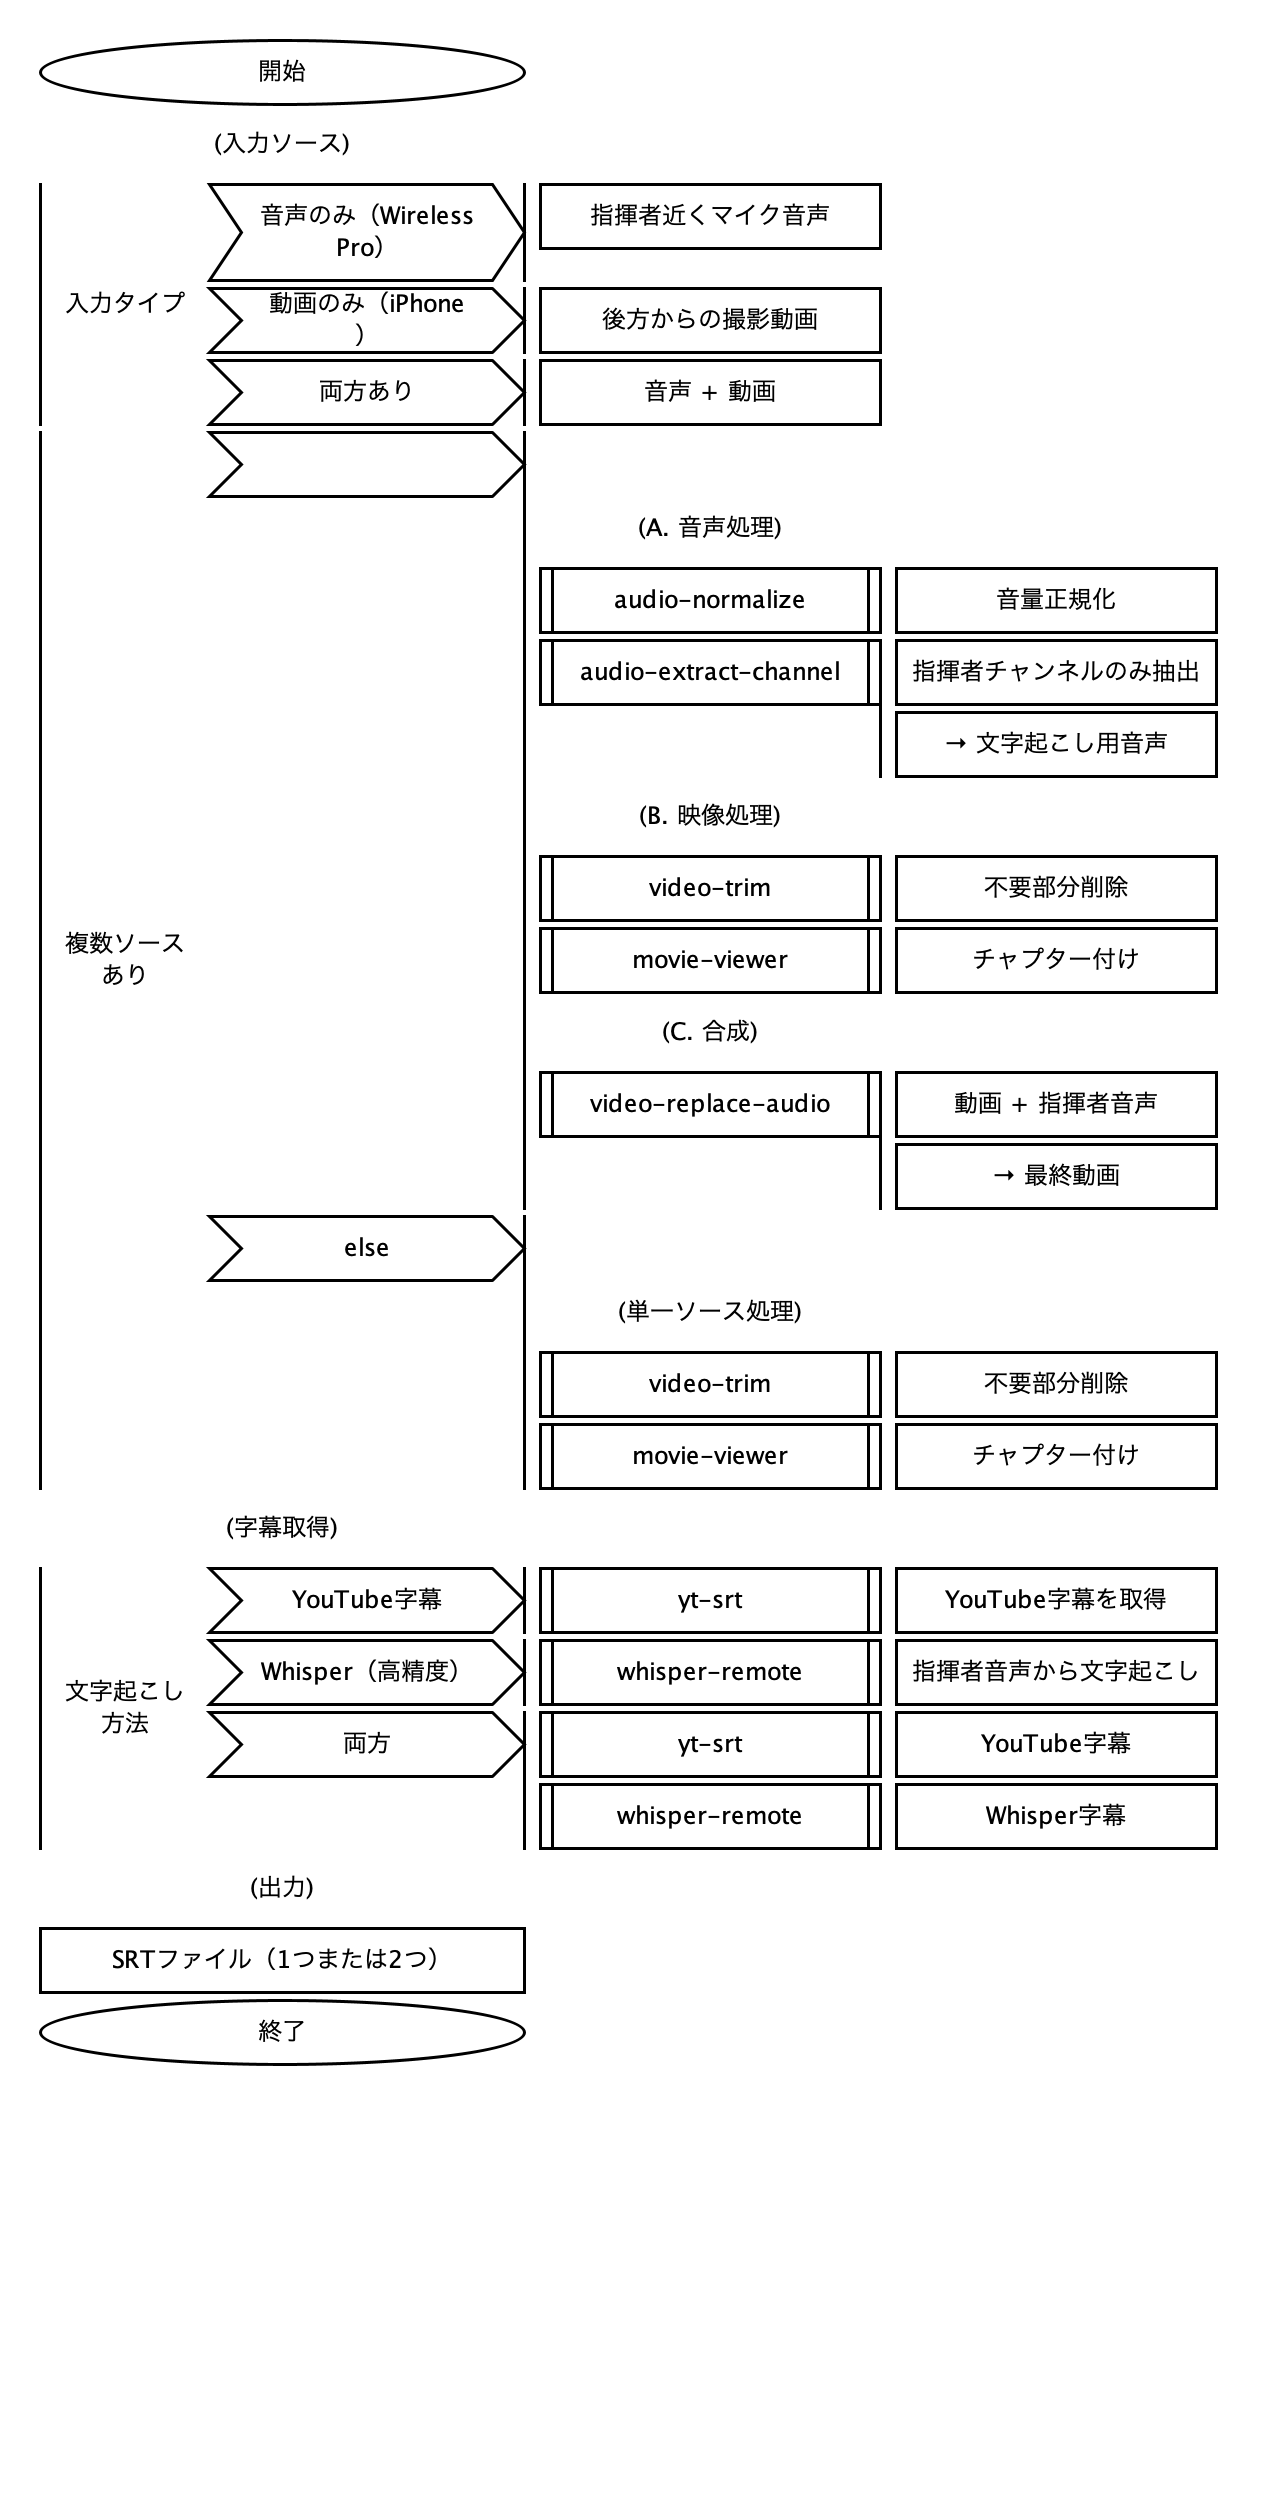
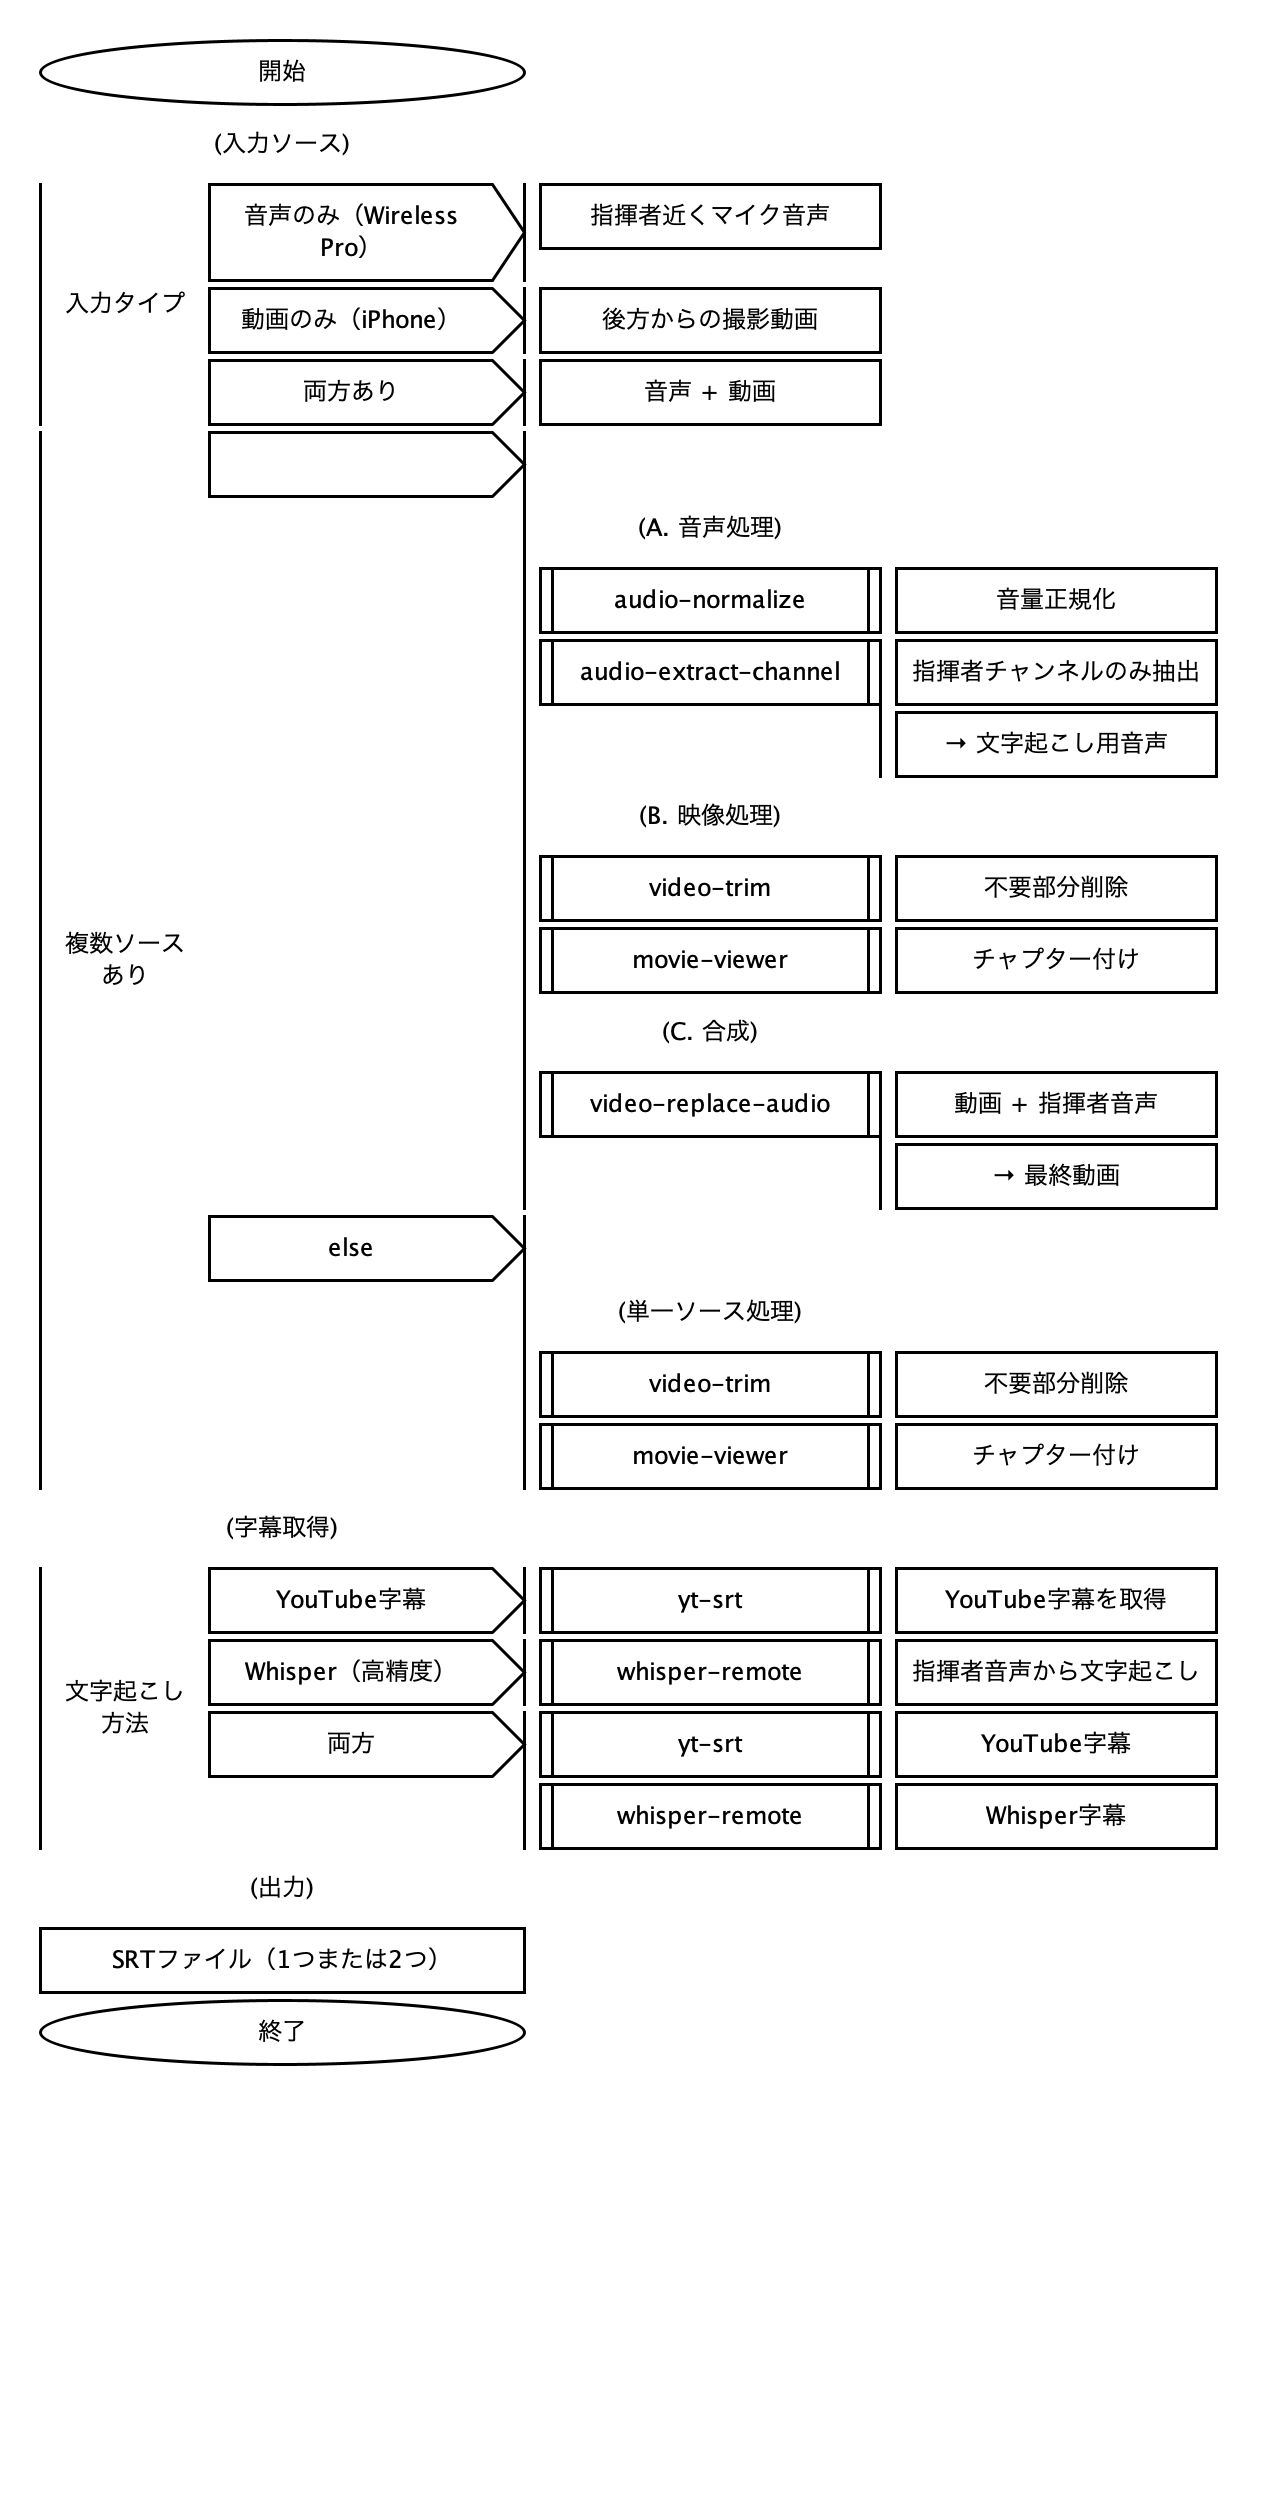
Change condition branch shape to pennant (flat left, pointed right)
- Switch/If case labels now use pennant shape instead of chevron
- Pennant: flat left edge, horizontal top/bottom, pointed right edge
- More faithful to original PADtools visual style

🤖 Generated with [Claude Code](https://claude.com/claude-code)

Changed region(s): [[0.1533, 0.0625, 0.3679, 0.1875], [0.1533, 0.625, 0.3679, 0.7188]]

diff --git a/tools/PadAlignedRenderer.java b/tools/PadAlignedRenderer.java
@@ -471,24 +471,23 @@ public class PadAlignedRenderer {
             double childHeight = calculateHeight(caseChild);
             double rowHeight = Math.max(caseBoxHeight, childHeight);
 
-            // Draw arrow shape (original PADtools style: chevron pointing right)
-            Path2D arrow = new Path2D.Double();
-            arrow.moveTo(caseX, caseY);
-            arrow.lineTo(caseX + caseWidth - arrowWidth, caseY);
-            arrow.lineTo(caseX + caseWidth, caseY + caseBoxHeight / 2);
-            arrow.lineTo(caseX + caseWidth - arrowWidth, caseY + caseBoxHeight);
-            arrow.lineTo(caseX, caseY + caseBoxHeight);
-            arrow.lineTo(caseX + arrowWidth, caseY + caseBoxHeight / 2);
-            arrow.closePath();
+            // Draw pennant/flag shape (original PADtools style: flat left, pointed right)
+            Path2D pennant = new Path2D.Double();
+            pennant.moveTo(caseX, caseY);
+            pennant.lineTo(caseX + caseWidth - arrowWidth, caseY);
+            pennant.lineTo(caseX + caseWidth, caseY + caseBoxHeight / 2);
+            pennant.lineTo(caseX + caseWidth - arrowWidth, caseY + caseBoxHeight);
+            pennant.lineTo(caseX, caseY + caseBoxHeight);
+            pennant.closePath();
 
             g2d.setColor(FILL_COLOR);
-            g2d.fill(arrow);
+            g2d.fill(pennant);
             g2d.setColor(STROKE_COLOR);
             g2d.setStroke(new BasicStroke(1.5f));
-            g2d.draw(arrow);
+            g2d.draw(pennant);
 
-            drawCenteredText(caseLabel, caseX + arrowWidth, caseY,
-                            caseWidth - arrowWidth * 2, caseBoxHeight, TEXT_COLOR, MAIN_FONT);
+            drawCenteredText(caseLabel, caseX, caseY,
+                            caseWidth - arrowWidth, caseBoxHeight, TEXT_COLOR, MAIN_FONT);
 
             // Draw vertical line connecting to children
             if (caseChild != null && childHeight > 0) {
@@ -525,23 +524,22 @@ public class PadAlignedRenderer {
         // Draw condition text on left (original style)
         drawCenteredText(node.getText(), x, y, conditionWidth, totalHeight, TEXT_COLOR, MAIN_FONT);
 
-        // Draw then branch with arrow shape (original PADtools style)
+        // Draw then branch with pennant shape (original PADtools style: flat left, pointed right)
         double branchX = x + conditionWidth;
 
-        Path2D thenArrow = new Path2D.Double();
-        thenArrow.moveTo(branchX, y);
-        thenArrow.lineTo(branchX + branchWidth - arrowWidth, y);
-        thenArrow.lineTo(branchX + branchWidth, y + BOX_HEIGHT / 2);
-        thenArrow.lineTo(branchX + branchWidth - arrowWidth, y + BOX_HEIGHT);
-        thenArrow.lineTo(branchX, y + BOX_HEIGHT);
-        thenArrow.lineTo(branchX + arrowWidth, y + BOX_HEIGHT / 2);
-        thenArrow.closePath();
+        Path2D thenPennant = new Path2D.Double();
+        thenPennant.moveTo(branchX, y);
+        thenPennant.lineTo(branchX + branchWidth - arrowWidth, y);
+        thenPennant.lineTo(branchX + branchWidth, y + BOX_HEIGHT / 2);
+        thenPennant.lineTo(branchX + branchWidth - arrowWidth, y + BOX_HEIGHT);
+        thenPennant.lineTo(branchX, y + BOX_HEIGHT);
+        thenPennant.closePath();
 
         g2d.setColor(FILL_COLOR);
-        g2d.fill(thenArrow);
+        g2d.fill(thenPennant);
         g2d.setColor(STROKE_COLOR);
         g2d.setStroke(new BasicStroke(1.5f));
-        g2d.draw(thenArrow);
+        g2d.draw(thenPennant);
 
         // Draw vertical line connecting to then children
         if (node.getTrueNode() != null && thenChildHeight > 0) {
@@ -561,23 +559,22 @@ public class PadAlignedRenderer {
         if (node.getFalseNode() != null) {
             double elseY = thenY + ROW_GAP;
 
-            Path2D elseArrow = new Path2D.Double();
-            elseArrow.moveTo(branchX, elseY);
-            elseArrow.lineTo(branchX + branchWidth - arrowWidth, elseY);
-            elseArrow.lineTo(branchX + branchWidth, elseY + BOX_HEIGHT / 2);
-            elseArrow.lineTo(branchX + branchWidth - arrowWidth, elseY + BOX_HEIGHT);
-            elseArrow.lineTo(branchX, elseY + BOX_HEIGHT);
-            elseArrow.lineTo(branchX + arrowWidth, elseY + BOX_HEIGHT / 2);
-            elseArrow.closePath();
+            Path2D elsePennant = new Path2D.Double();
+            elsePennant.moveTo(branchX, elseY);
+            elsePennant.lineTo(branchX + branchWidth - arrowWidth, elseY);
+            elsePennant.lineTo(branchX + branchWidth, elseY + BOX_HEIGHT / 2);
+            elsePennant.lineTo(branchX + branchWidth - arrowWidth, elseY + BOX_HEIGHT);
+            elsePennant.lineTo(branchX, elseY + BOX_HEIGHT);
+            elsePennant.closePath();
 
             g2d.setColor(FILL_COLOR);
-            g2d.fill(elseArrow);
+            g2d.fill(elsePennant);
             g2d.setColor(STROKE_COLOR);
             g2d.setStroke(new BasicStroke(1.5f));
-            g2d.draw(elseArrow);
+            g2d.draw(elsePennant);
 
-            drawCenteredText("else", branchX + arrowWidth, elseY,
-                            branchWidth - arrowWidth * 2, BOX_HEIGHT, TEXT_COLOR, MAIN_FONT);
+            drawCenteredText("else", branchX, elseY,
+                            branchWidth - arrowWidth, BOX_HEIGHT, TEXT_COLOR, MAIN_FONT);
 
             // Draw vertical line connecting to else children
             if (elseChildHeight > 0) {
